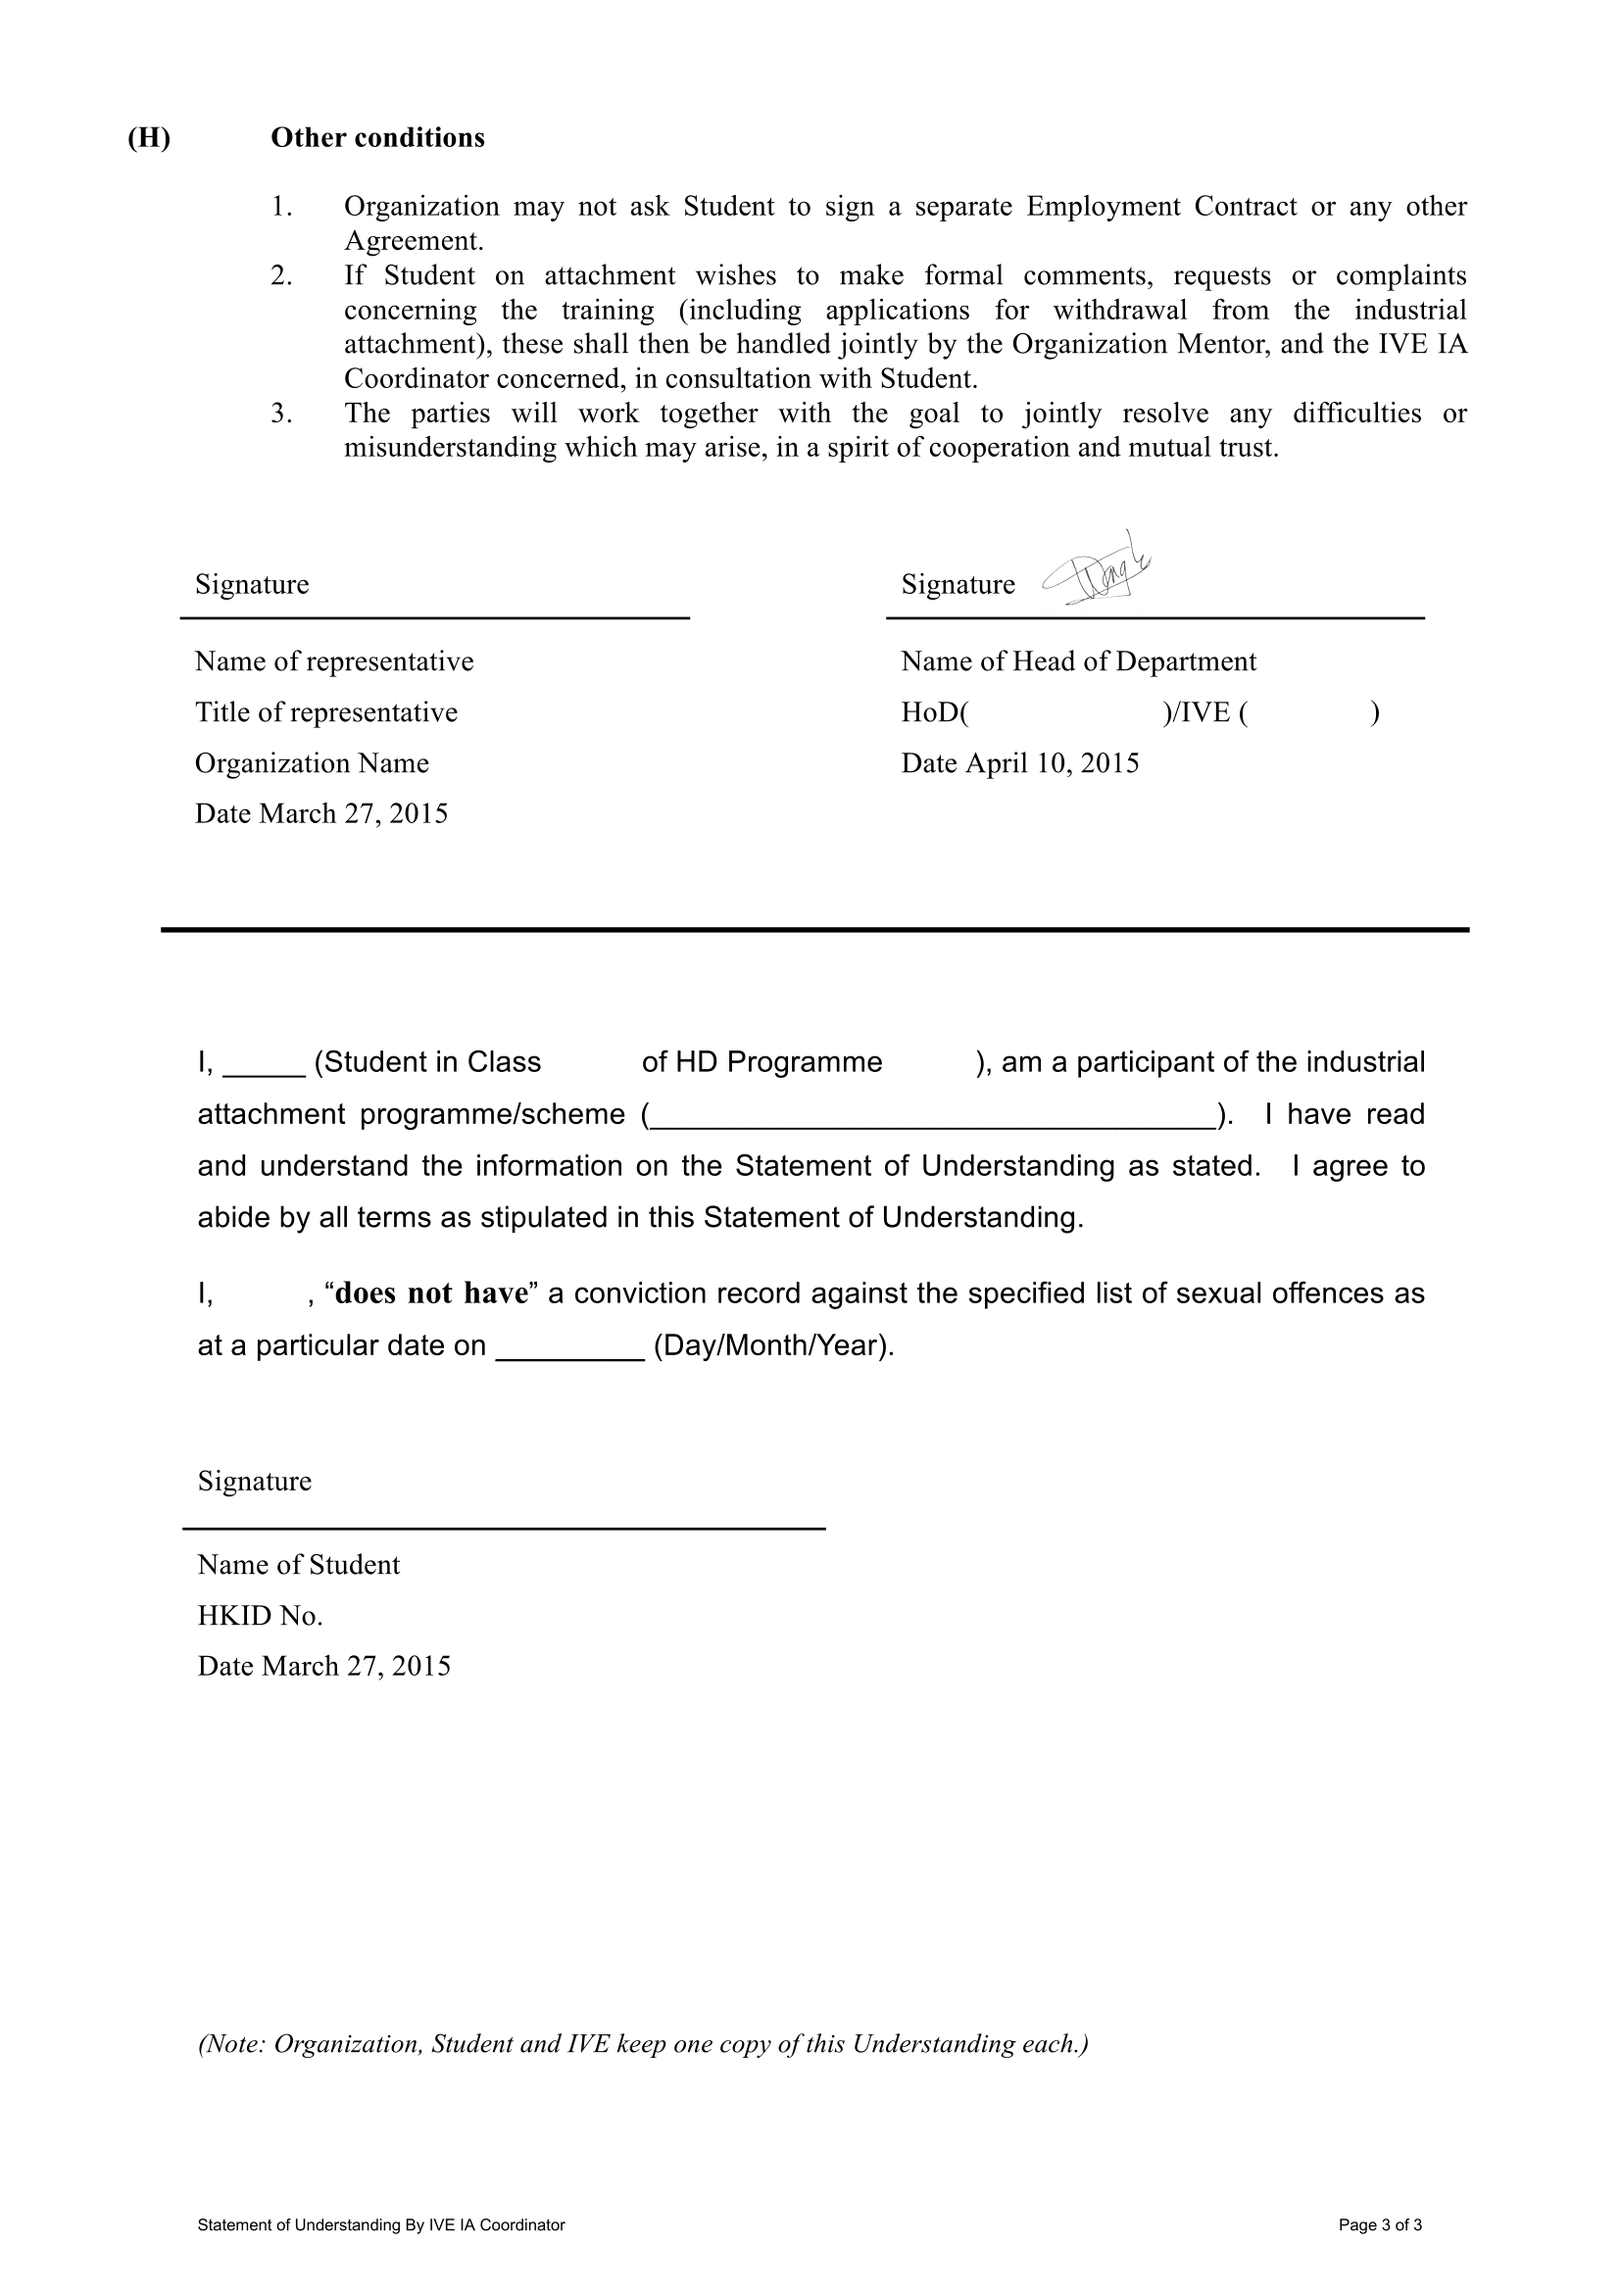
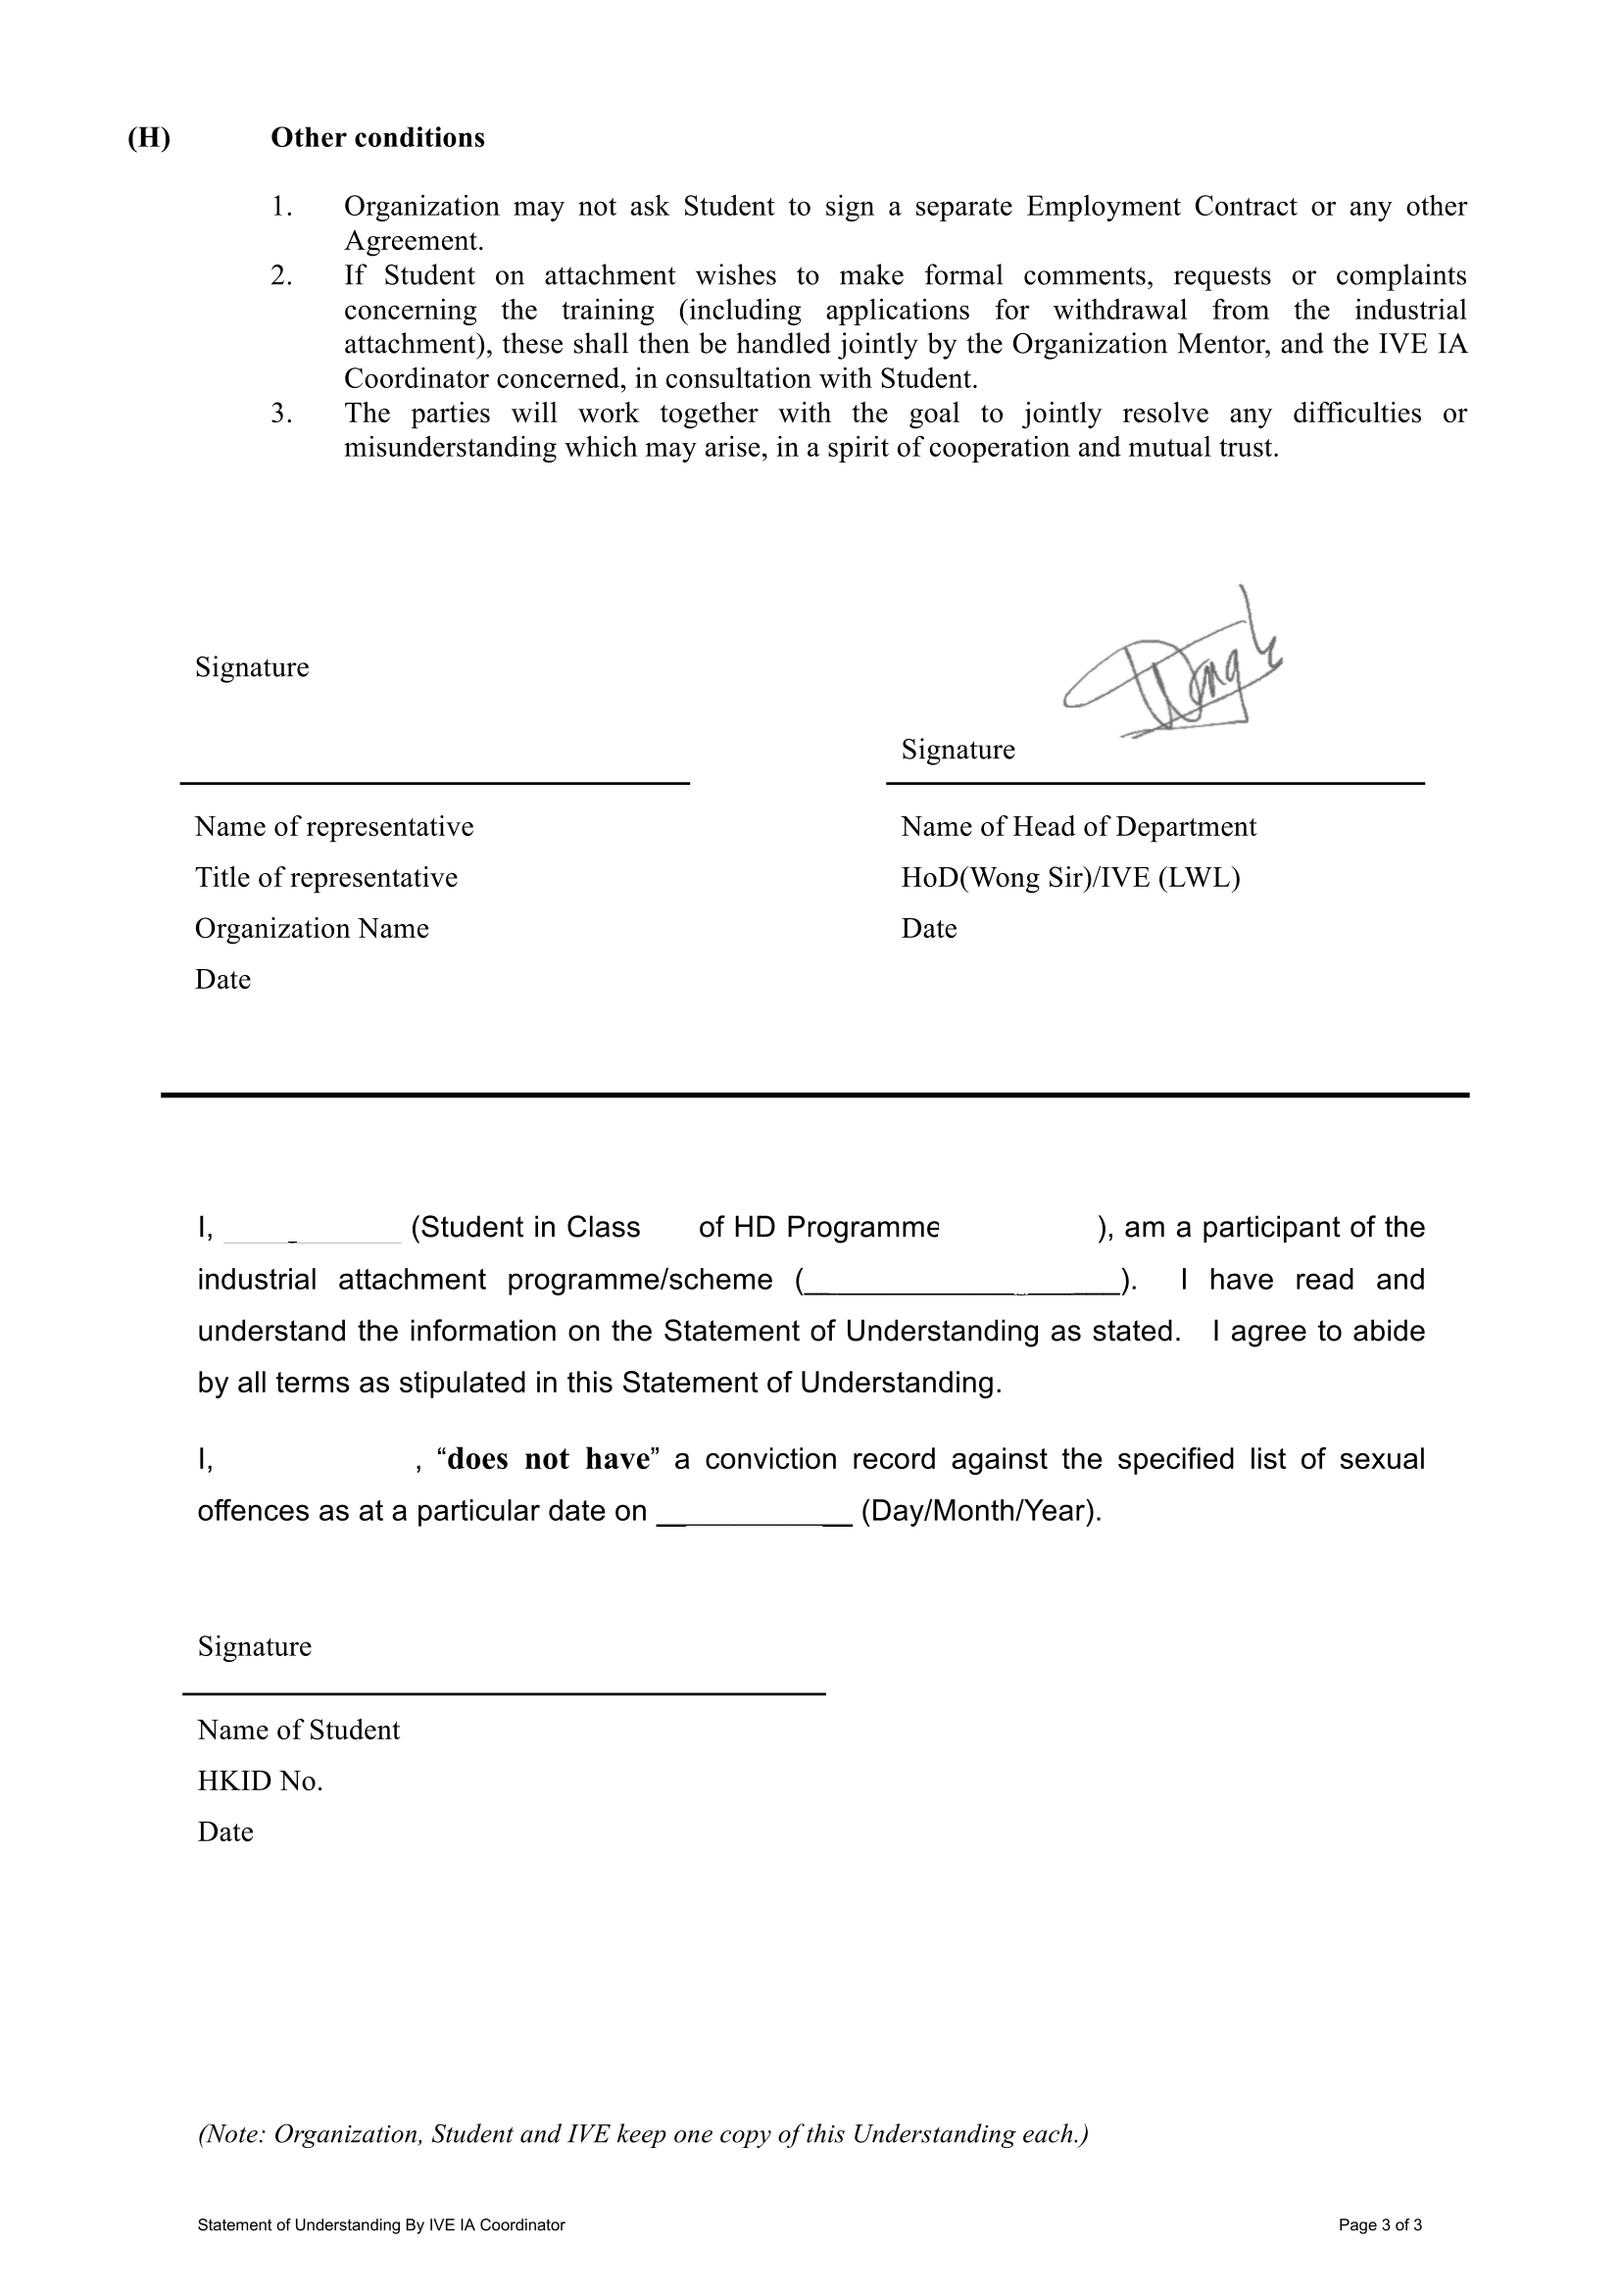
1.5

diff --git a/js/ia.j1Lib.js b/js/ia.j1Lib.js
@@ -351,11 +351,23 @@
                 "2": {
                     "1000,1980": "${ Allowance (Total) from Company }",
                     "1105,1840": "${ From from Company }",
-                    "1320,1840": "${ To from Company }",
-
+                    "1320,1840": "${ To from Company }"
                 },
                 "3": {
-
+                    "1000,960": "${ To from Company }",
+                    "290,1010": "${ To from Company }",
+                    "500,850": "${ Mentor Name from Company }",
+                    "500,900": "${ Mentor Title from Company }",
+                    "500,950": "${ English Name from Company }",
+                    "214,1260": "${ English Name from Personal }",
+                    "660,1260": "${ Study/Class from Personal }",
+                    "980,1250": "${ Programme Code from Personal }",
+                    "825,1310": "${ Programme Title from Personal }",
+                    "224,1500": "${ English Name from Personal }",
+                    "690,1540": "${ From from Company }",
+                    "450,1770": "${ English Name from Personal }",
+                    "340,1825": "${ HKID No from Personal }",
+                    "300,1875": "${ To from Company }",
                 }
             },
             "Student Information": {
@@ -381,7 +393,7 @@
         output.innerHTML = Object.keys(Template).map(function(i) {
             Object.keys(Template[i]).forEach(function(v) {
 
-                if (!debug || i == "Industrial Attachment Certificate (Template)" && v == "1") {
+                if (!debug || i == "Statement of Understanding (Organization)" && v == "3") {
                     edit("IA Document Template/" + i + "/" + i + "-" + v + ".png", Template[i][v]);
                 }
 
@@ -473,7 +485,7 @@
             "Student ID": "150595510",
             "Department": "Infomation Technology",
             "Programme Code": "IT114105",
-            "Programme Title": "Higher Diploma in Software Engineering",
+            "Programme Title": "Software Engineering",
             "Campus": "LWL",
             "Study/Class": "2/C",
             "Telephone": "91738490",
@@ -545,7 +557,7 @@
             });
 
             if (debug) {
-                // document.body.appendChild(canvas);
+                document.body.appendChild(canvas);
             } else {
                 cache[this.src] = canvas.toDataURL();
             }
